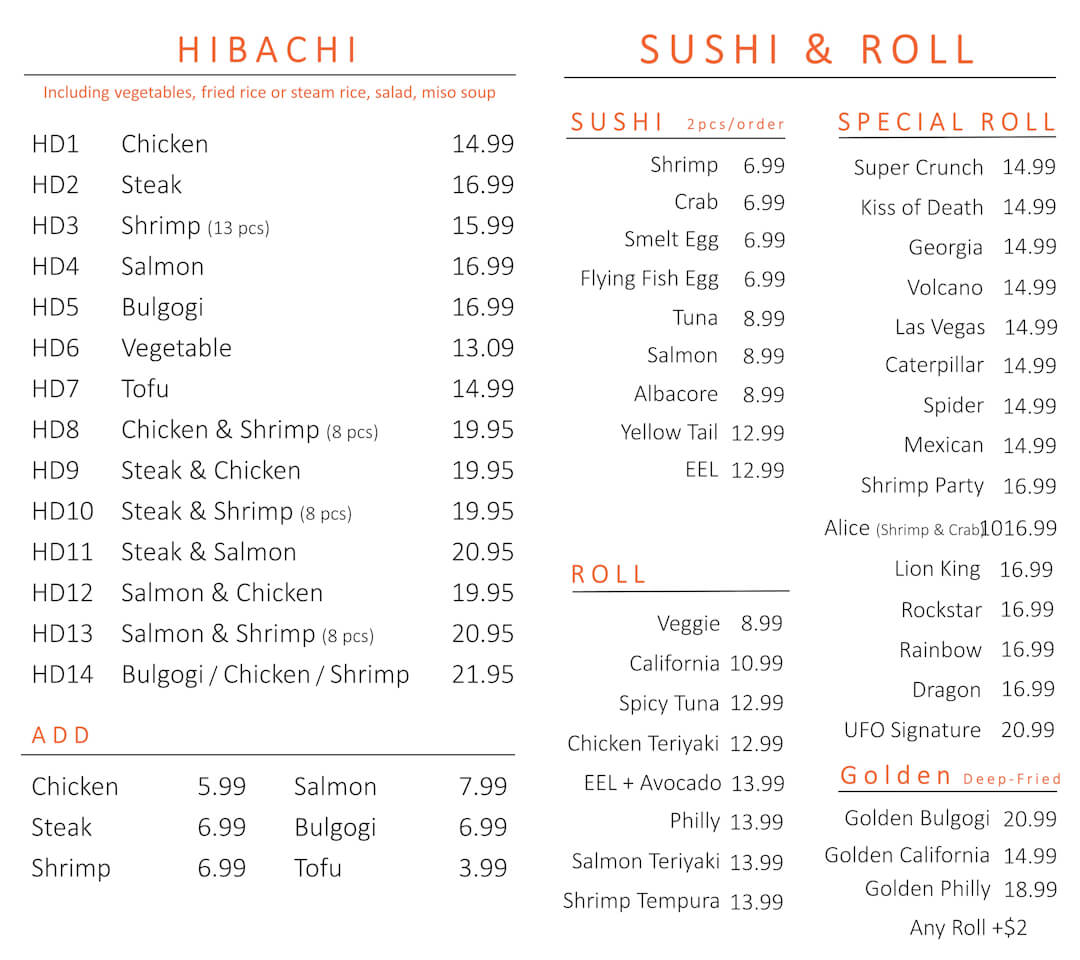
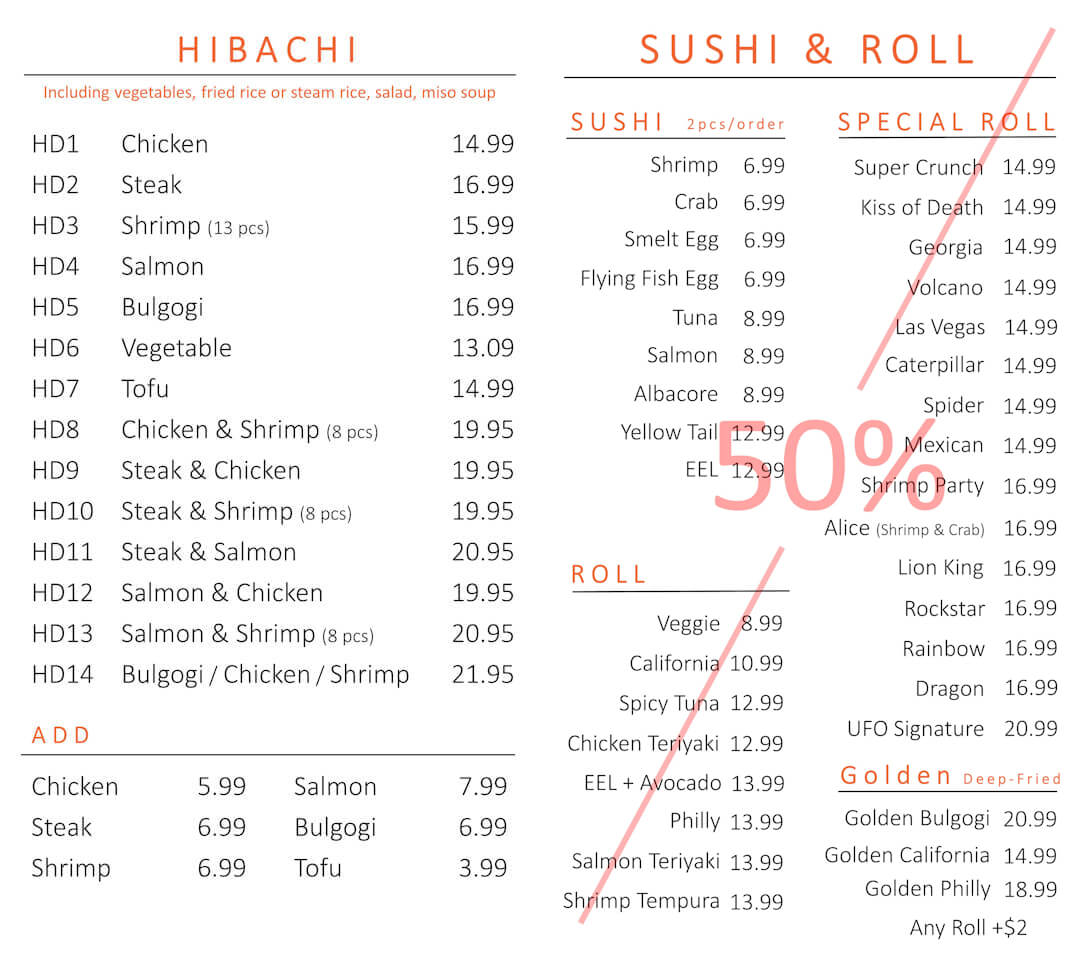
feat: title and menu changed

diff --git a/about.md b/about.md
@@ -1,5 +1,5 @@
 ---
-title: About Us UFO Hibachi Express
+title: About Us UFO Hibachi & Sushi
 layout: about
 description: About Us
 bodyClass: page-about
@@ -7,11 +7,11 @@ bodyClass: page-about
 
 # <b>About Us</b>
 
-UFO Hibachi Express serves the traditional styled food derived from Osaka. We specialize in serving for those that seek quickly made food and that expect excellent quality. We honor to represent the handcrafted Teriyaki sauce and the freshness of meat.
+UFO Hibachi & Sushi serves the traditional styled food derived from Osaka. We specialize in serving for those that seek quickly made food and that expect excellent quality. We honor to represent the handcrafted Teriyaki sauce and the freshness of meat.
 
 We had been acknowledged of our popularity by participating in numerous food festivals over a long time in order to realize the diversity of the consumers’ wants. This accomplishment of ours helped to earn the respect from our customers.
 
-UFO Hibachi Express serves fast made food that also delivers the healthiest and highest quality as possible.
+UFO Hibachi & Sushi serves fast made food that also delivers the healthiest and highest quality as possible.
 
 # FRESH OFF THE GRILL EVERYTIME
 We offer healthier alternative from other fast food. Specialized in Japanese Hibachi grill & Korean BBQ Tacos with the best ingredients.

diff --git a/menu.md b/menu.md
@@ -1,5 +1,5 @@
 ---
-title: Menu at UFO Hibachi Express
+title: Menu at UFO Hibachi & Sushi
 layout: menu
 description: Menu
 content_image_1: "images/menu2/menu1.jpg"

diff --git a/contact.md b/contact.md
@@ -1,5 +1,5 @@
 ---
-title: Contact UFO Hibachi Express
+title: Contact UFO Hibachi & Sushi
 layout: contact
 description: Contact
 bodyClass: page-contact

diff --git a/order-online.md b/order-online.md
@@ -1,5 +1,5 @@
 ---
-title: UFO Hibachi Express Online Order
+title: UFO Hibachi & Sushi Online Order
 layout: order-online
 description: Online Order
 ---
